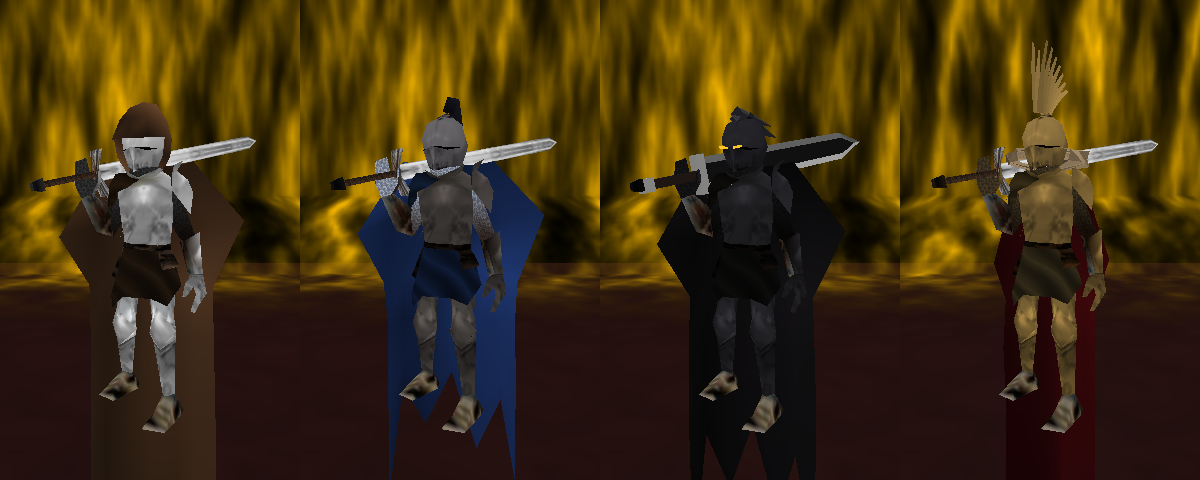
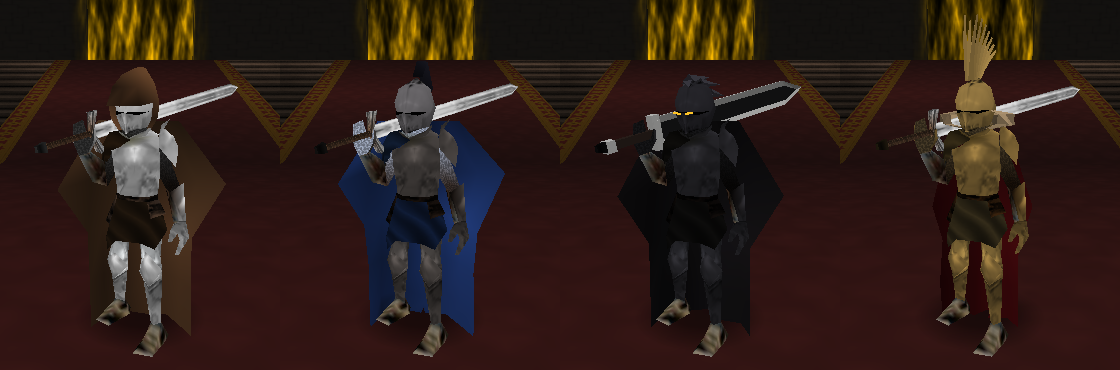
README: Guardian Unbound mid-barrage in the air; skins shot standing on the hall floor (on the gate's landing they floated, the capes hanging past their feet)

diff --git a/hle/autoplay.c b/hle/autoplay.c
@@ -248,8 +248,13 @@ void hle_autoplay(joypad_inputs_t *in, joypad_buttons_t *pressed)
 #endif
 #ifdef HLE_SKIN_GATE      // README shots: on the fog gate's landing (x ~ -700), turned HLE_SKIN_GATE_ROT, the camera along +x
         {
-            character.pos[0] = HLE_SKIN_GATE; character.pos[1] = 49.0f; character.pos[2] = 0.0f; character.rot[1] = HLE_SKIN_GATE_ROT;
-            if (t == 2) character_skin_reset_cloth();
+            // the height only placed once: pinned every frame, he falls and is put back, and the cape is dragged down past his feet
+            character.pos[0] = HLE_SKIN_GATE; character.pos[2] = 0.0f; character.rot[1] = HLE_SKIN_GATE_ROT;
+#ifdef HLE_SKIN_GATE_Y
+            if (t == 1) character.pos[1] = HLE_SKIN_GATE_Y;
+#endif
+            if (t == 60) character_skin_reset_cloth();
+            if (t % 60 == 0) debugf("[skin] f%d knight y %.1f state %d\n", frame, (double)character.pos[1], (int)character_get_state());
             float *p = character.pos;
             customCamPos = (T3DVec3){{ p[0] + HLE_SKIN_DIST, p[1] + HLE_SKIN_CAM_Y, p[2] }};
             customCamTarget = (T3DVec3){{ p[0], p[1] + HLE_SKIN_LOOK_Y, p[2] }};
@@ -1092,6 +1097,7 @@ void hle_autoplay(joypad_inputs_t *in, joypad_buttons_t *pressed)
                 customCamPos = (T3DVec3){{ cx, boss->pos[1] + HLE_PORTRAIT_H, cz }};
                 customCamTarget = (T3DVec3){{ boss->pos[0], boss->pos[1] + HLE_PORTRAIT_LOOK, boss->pos[2] }};
                 camera_mode_smooth(CAMERA_CUSTOM, 0.01f);
+                if (frame % 10 == 0) debugf("[portrait] f%d state %d y %.0f\n", frame, (int)boss->state, (double)boss->pos[1]);
             }
 #endif
 #ifdef HLE_DUMMY_CAM_HIGH  // a wide view from high up, fixed in the world, on the boss and the player (aim and turning)
